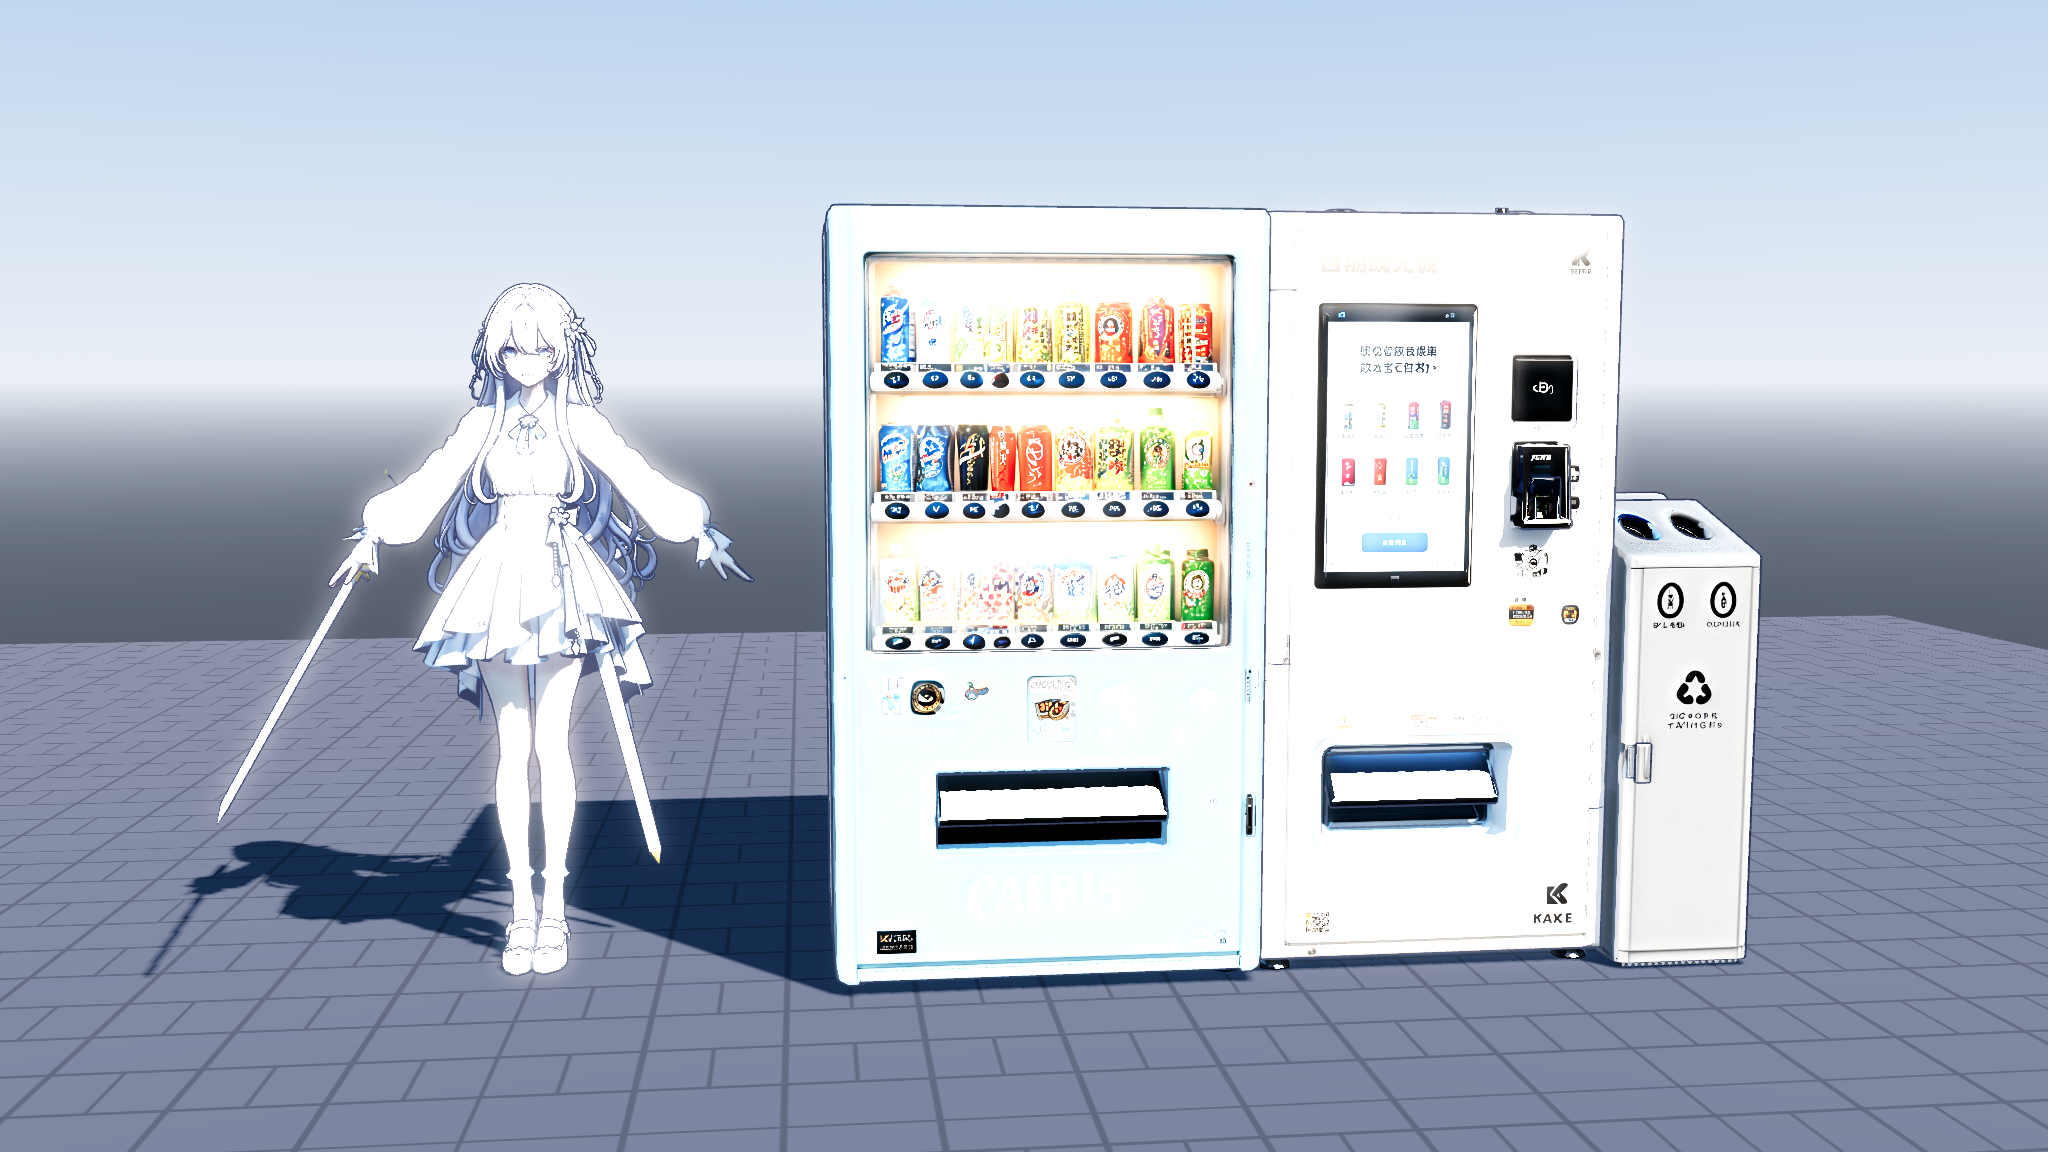
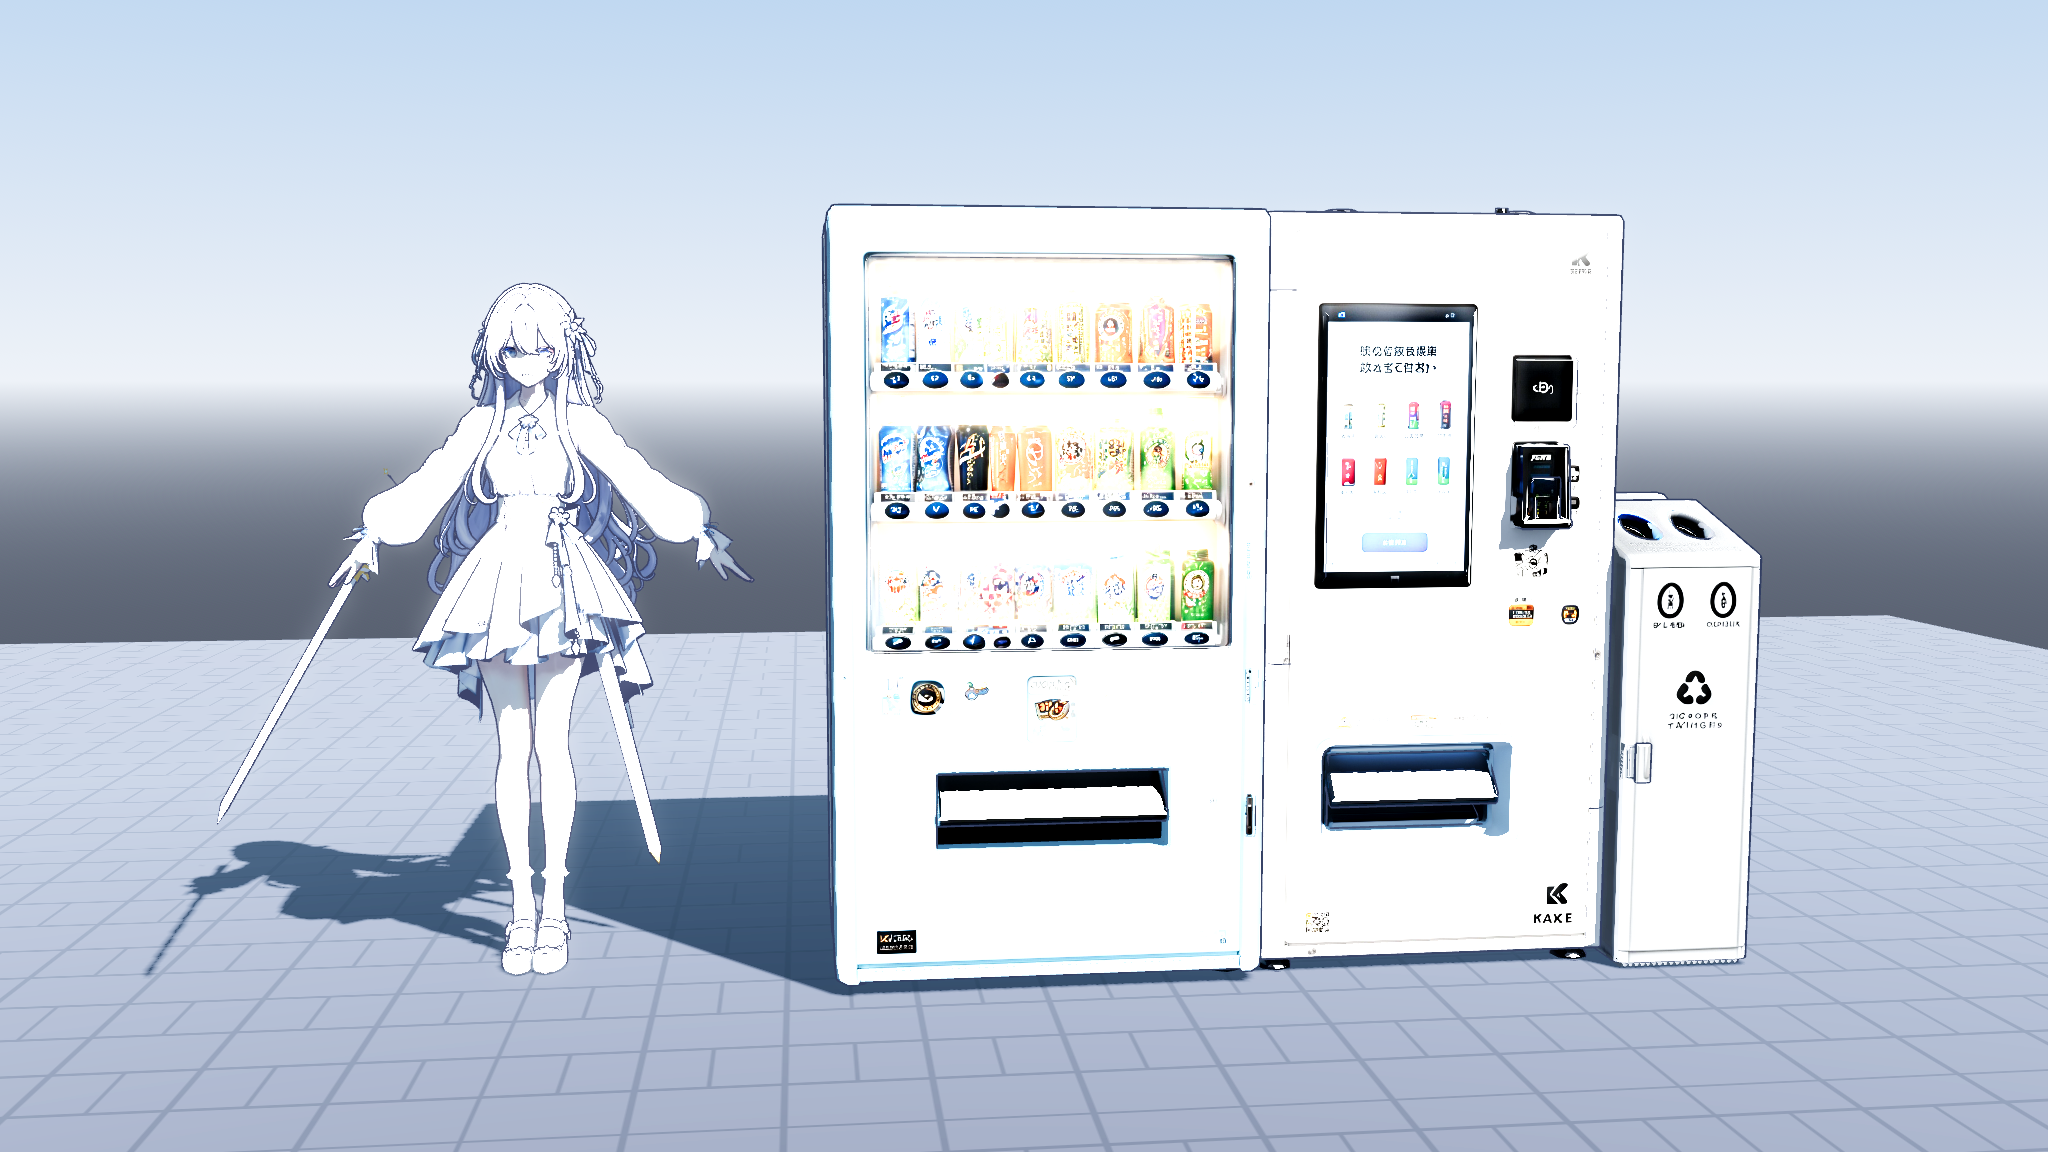
fix(art): 根除渲染过曝死白与自发光泄漏，重铸2K评审图光影 / Eliminate blown-white glow and emission leaks, rebuild 2K review render
- glow_hdr_threshold 0.92->1.6、glow_intensity 0.5->0.2，人物与机身不再产生泛光光晕 / raise glow HDR threshold and cut intensity
- 新增烘焙UV发光遮罩(几何门控: 正面+展窗高度带+Calpis机区间+色彩候选)，仅饮料展窗灯带发光，机身/数屏/回收桶零泄漏 / baked UV emission mask gates showcase-only glow
- toon_prop.gdshader 增加 emission_mask 采样通道；emission_energy=1.2、灯色暖白偏淡金(1.0,0.95,0.88) / mask-driven warm emission in toon_prop shader
- Aster 用 toon_character.gdshader 本身无 EMISSION 通道，确证人物零自发光 / verified no emission path on character shader
- 光照冷暖对冲: 太阳1.8暖金白+PSSM4级联+软化阴影、天光0.45清澈天蓝、ACES exposure 1.05 / warm sun 1.8 PSSM4 vs cool blue ambient 0.45, ACES 1.05
- 地面粗糙度0.85->0.45带微高光，石砖阳光下自然微反光 / pavement roughness 0.45 for subtle sun glint

diff --git a/asternova/scripts/pipeline/environment/build_vending_emission_mask.py b/asternova/scripts/pipeline/environment/build_vending_emission_mask.py
@@ -1,0 +1,184 @@
+# -*- coding: utf-8 -*-
+"""AsterNova - Build the showcase-window emission mask for the dual vending machine.
+
+Rasterizes the calibrated glb's triangles into UV space, then keeps only texels
+that pass ALL geometric + color gates, so the machine body / coin slot / recycle
+bin can never leak emission - only the drink-showcase interior lights up:
+
+  1. front-facing geometry  (world normal z < FRONT_MAX_NZ, front = glTF -Z)
+  2. showcase vertical band (WINDOW_BAND_Y, excludes dispensing bin / red logo strip)
+  3. Calpis machine only    (world x >= CALPIS_MIN_X, excludes the KAKE touchscreen
+     on the white machine and the recycle bin)
+  4. albedo color candidate (saturated drink colors, or warm-lit interior strip)
+
+Run: python build_vending_emission_mask.py
+Inputs : art/models/neighborhood/props/vending_machine/vending_machine_dual.glb
+         render-lab/models/environment/vending_machine_dual_4k_albedo.jpg
+Outputs: render-lab/models/environment/vending_machine_dual_emission_mask.png (1024, L)
+         %TEMP%/vm_mask_overlay.jpg (debug: mask in red over albedo)
+"""
+import json
+import os
+import struct
+
+import numpy as np
+from PIL import Image
+
+REPO = r"C:\Users\TimeCraker\Desktop\my_workspace\games\asternova"
+GLB = os.path.join(REPO, r"art\models\neighborhood\props\vending_machine\vending_machine_dual.glb")
+ALBEDO = os.path.join(REPO, r"render-lab\models\environment\vending_machine_dual_4k_albedo.jpg")
+OUT_MASK = os.path.join(REPO, r"render-lab\models\environment\vending_machine_dual_emission_mask.png")
+OUT_OVERLAY = os.path.join(os.environ.get("TEMP", r"C:\Temp"), "vm_mask_overlay.jpg")
+
+RES = 1024
+FRONT_MAX_NZ = -0.35          # world-space geometric normal z gate (front faces -Z)
+WINDOW_BAND_Y = (0.86, 1.64)  # meters, showcase window vertical band
+CALPIS_MIN_X = 0.02           # meters, only the blue Calpis machine may glow
+
+
+def log(msg):
+    print("[vm_mask] " + str(msg), flush=True)
+
+
+# ----------------------------------------------------------------------------
+# 1. Parse glb: positions / uvs / indices (node transform is identity, verified)
+# ----------------------------------------------------------------------------
+data = open(GLB, "rb").read()
+clen = struct.unpack("<I", data[12:16])[0]
+gltf = json.loads(data[20:20 + clen])
+bin_off = 20 + clen + 8
+
+for node in gltf["nodes"]:
+    if any(k in node for k in ("translation", "rotation", "scale", "matrix")):
+        raise RuntimeError("node transform is not identity; add transform handling")
+
+prim = gltf["meshes"][0]["primitives"][0]
+acc = gltf["accessors"]
+views = gltf["bufferViews"]
+
+
+def read_attr(attr_idx, dtype, comps):
+    attr = acc[attr_idx]
+    view = views[attr["bufferView"]]
+    start = bin_off + view.get("byteOffset", 0) + attr.get("byteOffset", 0)
+    arr = np.frombuffer(data, dtype=dtype, count=attr["count"] * comps, offset=start)
+    return arr.reshape(attr["count"], comps)
+
+
+positions = read_attr(prim["attributes"]["POSITION"], "<f4", 3)
+uvs = read_attr(prim["attributes"]["TEXCOORD_0"], "<f4", 2)
+idx_acc = acc[prim["indices"]]
+idx_dtype = {5121: "<u1", 5123: "<u2", 5125: "<u4"}[idx_acc["componentType"]]
+indices = read_attr(prim["indices"], idx_dtype, 1).reshape(-1)
+log(f"verts={len(positions)} tris={len(indices) // 3}")
+
+# ----------------------------------------------------------------------------
+# 2. Rasterize per-triangle flat attributes into UV space (glTF uv: origin top-left)
+# ----------------------------------------------------------------------------
+nz_buf = np.full((RES, RES), np.nan, dtype=np.float32)  # face normal z (world)
+wy_buf = np.full((RES, RES), np.nan, dtype=np.float32)  # face centroid world y
+wx_buf = np.full((RES, RES), np.nan, dtype=np.float32)  # face centroid world x
+
+tri = indices.reshape(-1, 3)
+p = positions[tri]                     # (T,3,3)
+t = uvs[tri]                           # (T,3,2)
+ng = np.cross(p[:, 1] - p[:, 0], p[:, 2] - p[:, 0])
+ng /= np.maximum(np.linalg.norm(ng, axis=1, keepdims=True), 1e-9)
+fc = p.mean(axis=1)                    # face centroid world position
+
+px = np.clip((t[:, :, 0] * RES).astype(np.int32), 0, RES - 1)
+py = np.clip((t[:, :, 1] * RES).astype(np.int32), 0, RES - 1)
+
+for i in range(len(tri)):
+    x0, x1 = px[i].min(), px[i].max()
+    y0, y1 = py[i].min(), py[i].max()
+    if x1 - x0 > RES // 2 or y1 - y0 > RES // 2:  # degenerate UV stretch, skip
+        continue
+    gx, gy = np.meshgrid(np.arange(x0, x1 + 1) + 0.5, np.arange(y0, y1 + 1) + 0.5)
+    ax, ay = t[i, 0] * RES
+    bx, by = t[i, 1] * RES
+    cx2, cy2 = t[i, 2] * RES
+    den = (by - cy2) * (ax - cx2) + (cx2 - bx) * (ay - cy2)
+    if abs(den) < 1e-9:
+        continue
+    w0 = ((by - cy2) * (gx - cx2) + (cx2 - bx) * (gy - cy2)) / den
+    w1 = ((cy2 - ay) * (gx - cx2) + (ax - cx2) * (gy - cy2)) / den
+    w2 = 1.0 - w0 - w1
+    inside = (w0 >= -1e-3) & (w1 >= -1e-3) & (w2 >= -1e-3)
+    if not inside.any():
+        continue
+    iy = gy[inside].astype(np.int32)
+    ix = gx[inside].astype(np.int32)
+    nz_buf[iy, ix] = ng[i, 2]
+    wy_buf[iy, ix] = fc[i, 1]
+    wx_buf[iy, ix] = fc[i, 0]
+
+covered = ~np.isnan(nz_buf)
+log(f"rasterized texels: {int(covered.sum())}")
+
+# ----------------------------------------------------------------------------
+# 3. Albedo color gates
+# ----------------------------------------------------------------------------
+rgb = np.asarray(Image.open(ALBEDO).convert("RGB").resize((RES, RES), Image.BOX), dtype=np.float32) / 255.0
+v = rgb.max(axis=2)
+mn = rgb.min(axis=2)
+s = np.where(v > 1e-4, (v - mn) / np.maximum(v, 1e-4), 0.0)
+hue = np.zeros_like(v)
+m = (v - mn) > 1e-4
+rr, gg, bb = r_ch, g_ch, b_ch = rgb[..., 0][m], rgb[..., 1][m], rgb[..., 2][m]
+h = np.where(v[m] == rr, ((gg - bb) / (v[m] - mn[m])) % 6,
+             np.where(v[m] == gg, (bb - rr) / (v[m] - mn[m]) + 2,
+                      (rr - gg) / (v[m] - mn[m]) + 4)) * 60.0
+hue[m] = h
+
+colorful = (s > 0.42) & (v > 0.30)
+warm = (v > 0.55) & (s > 0.15) & (hue >= 10.0) & (hue <= 60.0)
+candidate = colorful | warm
+
+# ----------------------------------------------------------------------------
+# 4. Combine gates -> mask, clean specks, feather
+# ----------------------------------------------------------------------------
+band = (wy_buf >= WINDOW_BAND_Y[0]) & (wy_buf <= WINDOW_BAND_Y[1])
+calpis = wx_buf >= CALPIS_MIN_X
+front = nz_buf < FRONT_MAX_NZ
+mask = covered & front & band & calpis & candidate
+
+
+def erode(m):
+    c = m.copy()
+    c[1:, :] &= m[:-1, :]
+    c[:-1, :] &= m[1:, :]
+    c[:, 1:] &= m[:, :-1]
+    c[:, :-1] &= m[:, 1:]
+    return c
+
+
+def dilate(m):
+    c = m.copy()
+    c[1:, :] |= m[:-1, :]
+    c[:-1, :] |= m[1:, :]
+    c[:, 1:] |= m[:, :-1]
+    c[:, :-1] |= m[:, 1:]
+    return c
+
+
+mask = dilate(dilate(erode(erode(mask))))  # strong open: kill specks <= ~4px
+mask = dilate(mask)                        # regrow 1px to cover triangle edges
+soft = mask.astype(np.float32)
+for _ in range(2):
+    soft = (soft
+            + np.roll(soft, 1, 0) + np.roll(soft, -1, 0)
+            + np.roll(soft, 1, 1) + np.roll(soft, -1, 1)) / 5.0
+soft = np.clip(soft * 1.4, 0.0, 1.0)
+soft[~covered] = 0.0
+log(f"mask texels: {int((soft > 0.5).sum())} / {RES * RES}")
+
+# ----------------------------------------------------------------------------
+# 5. Save mask + debug overlay
+# ----------------------------------------------------------------------------
+Image.fromarray((soft * 255).astype(np.uint8), mode="L").save(OUT_MASK)
+log(f"mask saved: {OUT_MASK}")
+
+overlay = (rgb * 0.55 + soft[..., None] * np.array([1.0, 0.12, 0.12]) * 0.75).clip(0, 1)
+Image.fromarray((overlay * 255).astype(np.uint8)).save(OUT_OVERLAY, quality=92)
+log(f"overlay saved: {OUT_OVERLAY}")
